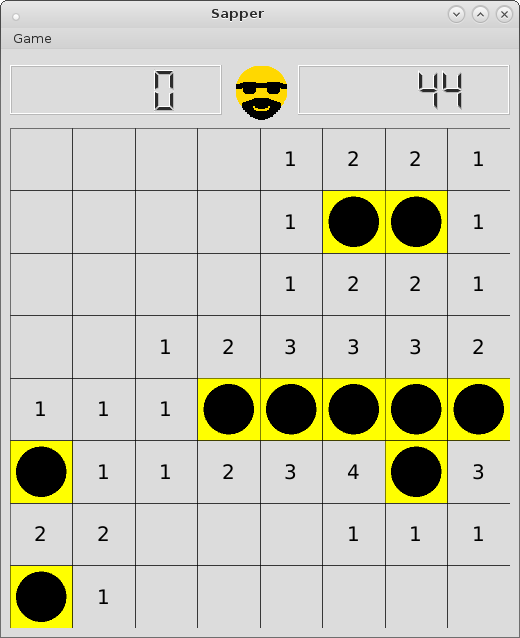
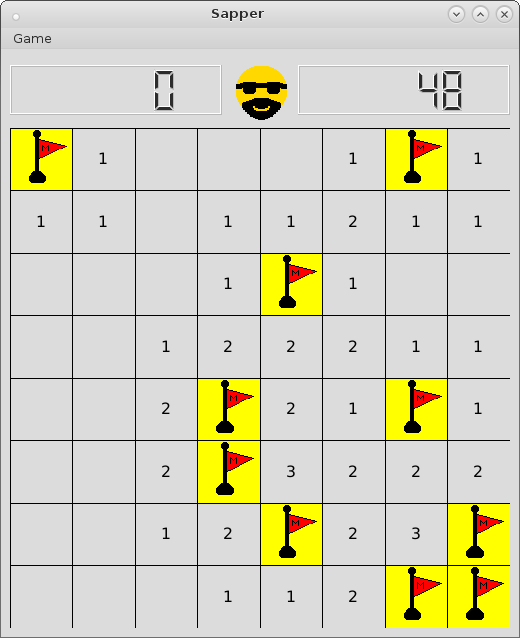
Draw red flag on right click, bomb on bombed

diff --git a/src/SapperFieldWidget.cpp b/src/SapperFieldWidget.cpp
@@ -46,7 +46,11 @@ void SapperFieldWidget::paintEvent(QPaintEvent *e)
 
             if(sapper->isOpended(point)){
                 if(sapper->isMined(point)){
-                    drawMine(p, x, y);
+                    if(sapper->isExploded(point)){
+                        drawExplosion(p, x, y);
+                    }else{
+                        drawMine(p, x, y);
+                    }
                 }else{
                     QFont f;
                     f.setPixelSize(plotWidth / 100 * 4);
@@ -59,6 +63,9 @@ void SapperFieldWidget::paintEvent(QPaintEvent *e)
                     }
                 }
             }
+            if(sapper->isFlagged(point)){
+                drawFlag(p, x, y);
+            }
         }
     }
 }
@@ -68,11 +75,7 @@ QColor SapperFieldWidget::getCellColor(const QPoint &point)
     if(sapper->isFlagged(point)){
         return Qt::yellow;
     }else if(sapper->isOpended(point)){
-        if(sapper->isMined(point)){
-            return Qt::red;
-        }else{
             return Qt::transparent;
-        }
     }else{
         return Qt::lightGray;
     }
@@ -116,16 +119,17 @@ void SapperFieldWidget::mouseReleaseEvent(QMouseEvent *e)
     }
 }
 
+void SapperFieldWidget::drawExplosion(QPainter &p, int x, int y)
+{
+    p.drawPixmap(QRect(x, y, cellWidth, cellWidth), QPixmap(":/icons/icons/boom.png"));
+}
+
 void SapperFieldWidget::drawMine(QPainter &p, int x, int y)
 {
-    p.setBrush(Qt::black);
+    p.drawPixmap(QRect(x, y, cellWidth, cellWidth), QPixmap(":/icons/icons/mine.png"));
+}
 
-    float rectSide = cellWidth * 0.8;
-    float spanSize = cellWidth / 2 - rectSide / 2;
-    QPointF upLeft(x + spanSize, y + spanSize);
-    QPointF downRight(x + spanSize + rectSide, y + spanSize + rectSide);
-
-    QRectF elementRect(upLeft,downRight);
-
-    p.drawEllipse(elementRect);
+void SapperFieldWidget::drawFlag(QPainter &p, int x, int y)
+{
+    p.drawPixmap(QRect(x, y, cellWidth, cellWidth), QPixmap(":/icons/icons/red-flag.png"));
 }

diff --git a/src/SapperGameField.cpp b/src/SapperGameField.cpp
@@ -3,7 +3,7 @@
 #include <time.h>
 
 FieldCell::FieldCell() :
-    mined(false), neiMined(0), flagged(false), opened(false)
+    mined(false), neiMined(0), flagged(false), opened(false), bombed(false)
 {
 }
 
@@ -92,6 +92,7 @@ void SapperGameField::click(const QPoint &point)
         cell->opened = true;
 
         if(cell->mined){
+            cell->bombed = true;
             openAll();
             emit bombed();
         }else{
@@ -101,7 +102,6 @@ void SapperGameField::click(const QPoint &point)
             }
             if(allFreeOpened()){
                 flagAllMines();
-                openAll();
                 emit win();
             }
         }
@@ -212,6 +212,16 @@ bool SapperGameField::isMined(const QPoint &point)
         return false;
     }else{
         return cell->mined;
+    }
+}
+
+bool SapperGameField::isExploded(const QPoint &point)
+{
+    FieldCell *cell = getCell(point);
+    if(!cell->opened){
+        return false;
+    }else{
+        return cell->bombed;
     }
 }
 

diff --git a/src/SapperGameField.h b/src/SapperGameField.h
@@ -14,6 +14,7 @@ struct FieldCell
     short neiMined;
     bool flagged;
     bool opened;
+    bool bombed;
 
     FieldCell();
 };
@@ -61,6 +62,7 @@ public:
     bool isFlagged(const QPoint &point);
     bool isOpended(const QPoint &point);
     bool isMined(const QPoint &point);
+    bool isExploded(const QPoint &point);
     int getNeiMines(const QPoint &point);
 
     int getEstimatedFlags();

diff --git a/src/SapperPrivate.cpp b/src/SapperPrivate.cpp
@@ -79,6 +79,15 @@ bool SapperPrivate::isMined(const QPoint &point)
     }
 }
 
+bool SapperPrivate::isExploded(const QPoint &point)
+{
+    if(gameField == NULL){
+        return false;
+    }else{
+        return gameField->isExploded(point);
+    }
+}
+
 int SapperPrivate::getNeiMines(const QPoint &point)
 {
     if(gameField == NULL){

diff --git a/src/Sapper.cpp b/src/Sapper.cpp
@@ -53,6 +53,11 @@ bool Sapper::isMined(const QPoint &point)
     return privateMembers->isMined(point);
 }
 
+bool Sapper::isExploded(const QPoint &point)
+{
+    return privateMembers->isExploded(point);
+}
+
 int Sapper::getNeighborMines(const QPoint &point)
 {
     return privateMembers->getNeiMines(point);

diff --git a/src/SapperFieldWidget.h b/src/SapperFieldWidget.h
@@ -31,6 +31,8 @@ class SapperFieldWidget : public QWidget
     void mouseReleaseEvent(QMouseEvent *e);
 
     void drawMine(QPainter &p, int x, int y);
+    void drawExplosion(QPainter &p, int x, int y);
+    void drawFlag(QPainter &p, int x, int y);
 
     QColor getCellColor(const QPoint &point);
 

diff --git a/src/Sapper.h b/src/Sapper.h
@@ -33,6 +33,7 @@ public:
      */
     bool isOpended(const QPoint &point);
     bool isMined(const QPoint &point);
+    bool isExploded(const QPoint &point);
     /**
      * @param point - Cell index.
      * @return 0 if cell is not opened or count of mines in 8 neighboring cells.

diff --git a/src/SapperPrivate.h b/src/SapperPrivate.h
@@ -30,6 +30,7 @@ public:
     bool isFlagged(const QPoint &point);
     bool isOpended(const QPoint &point);
     bool isMined(const QPoint &point);
+    bool isExploded(const QPoint &point);
     int getNeiMines(const QPoint &point);
 
     int getTimeSeconds();
